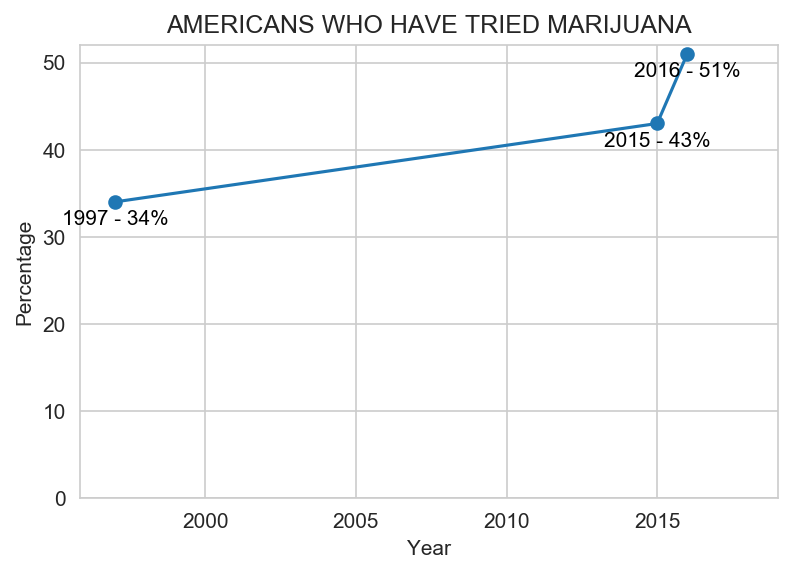
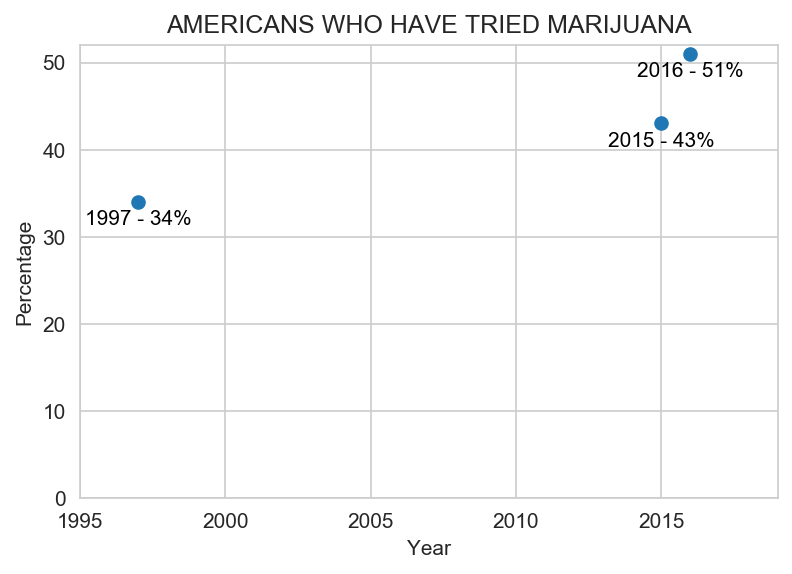
Corrected img2_correct

diff --git a/pysource/2-pie/correct.py b/pysource/2-pie/correct.py
@@ -44,12 +44,12 @@ df
 
 # %%
 sns.set_style('whitegrid')
-plt.plot(df.date, df.percentage)
+# plt.plot(df.date, df.percentage)
 plt.scatter(df.date, df.percentage)
 
 plt.ylabel('Percentage')
 
-minor = np.arange(1997, 2020, step = 1)
+minor = np.arange(1995, 2020, step = 1)
 ax = plt.gca()
 ax.set_xticks(minor, minor = True)
 ax.tick_params(which='minor', length=10, color='r')
